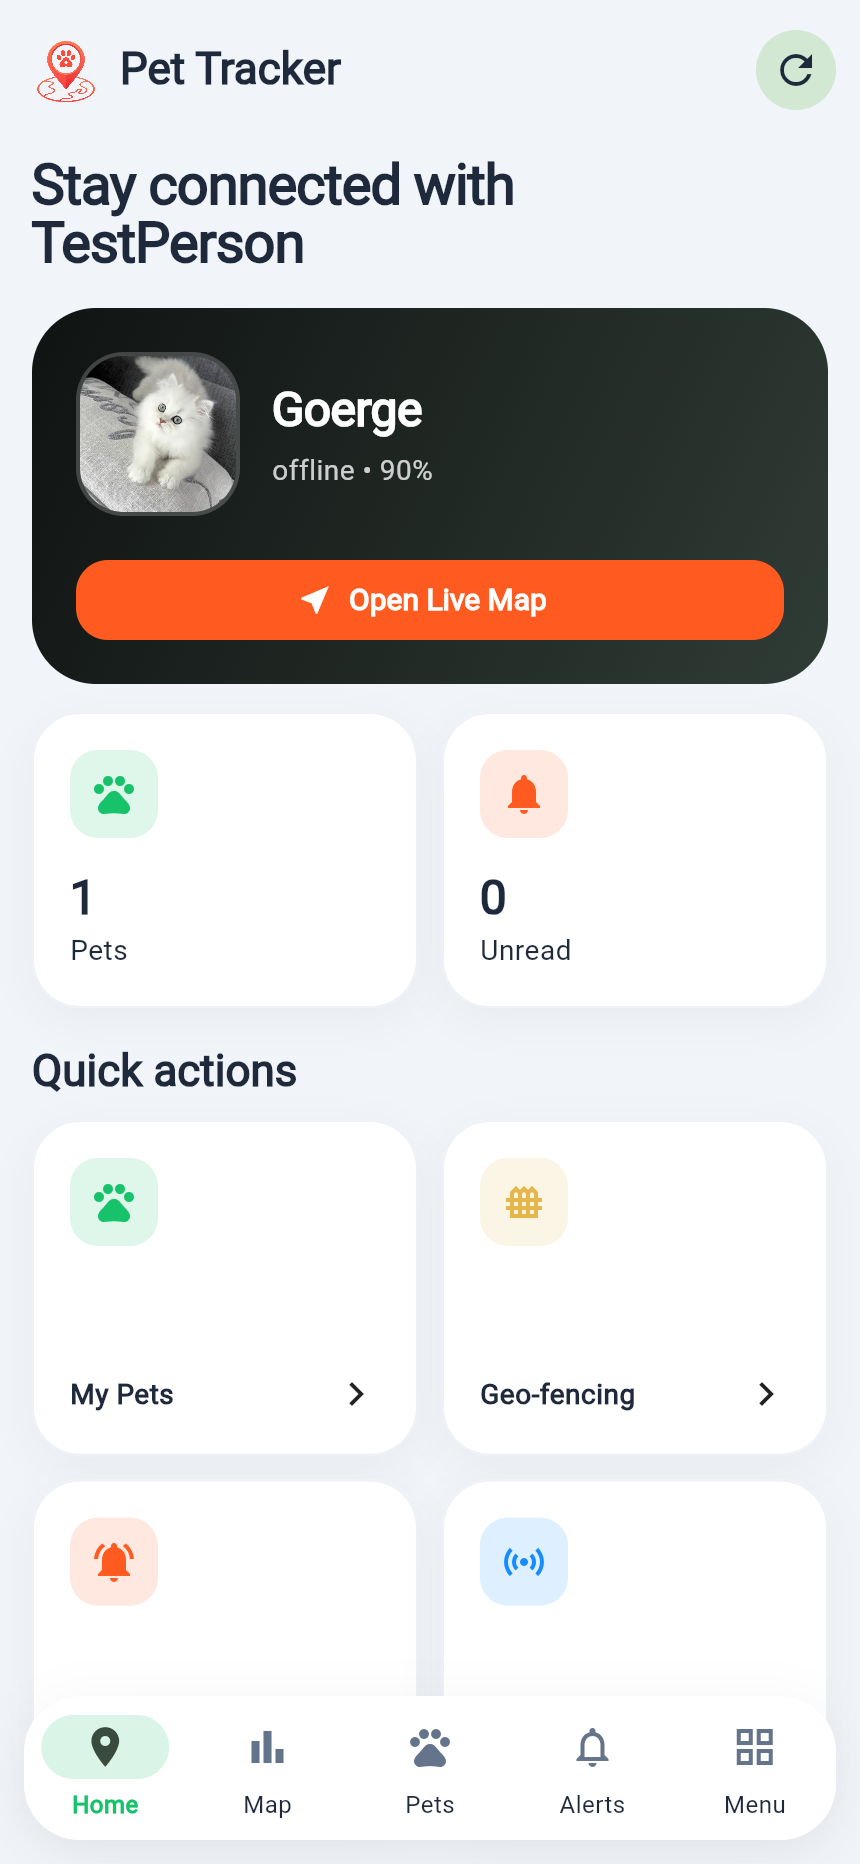
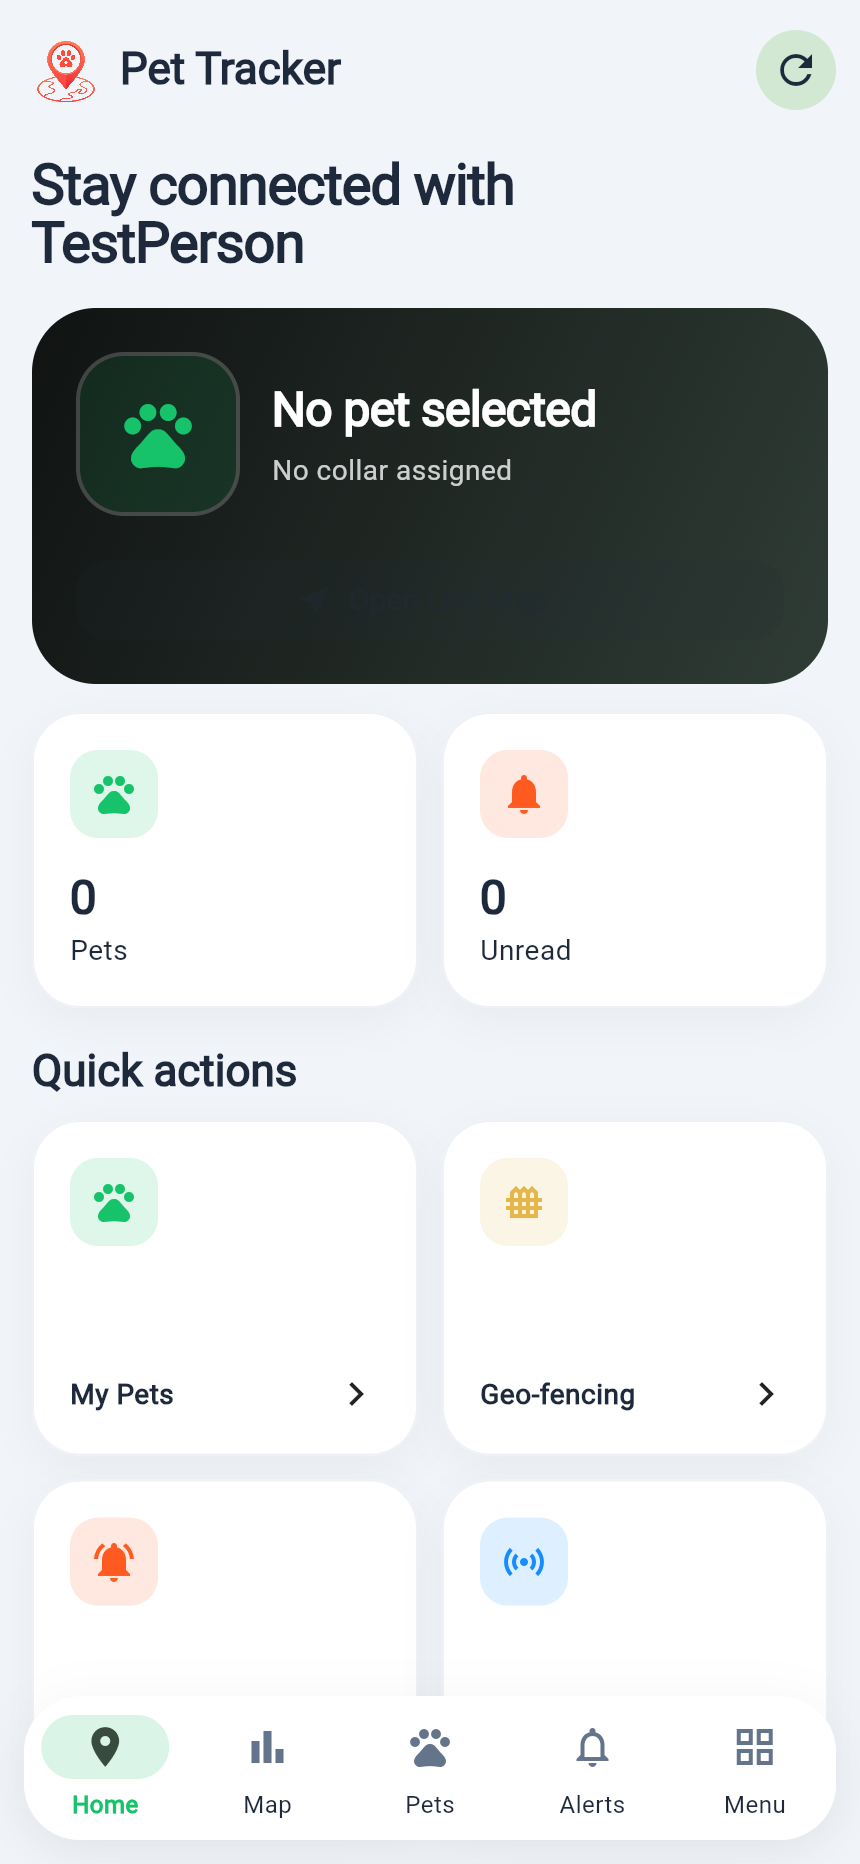
newest

Changed region(s): [[0.0907, 0.1867, 0.9372, 0.3423], [0.0605, 0.4667, 0.1209, 0.4979]]

diff --git a/pet-tracker-app/README.md b/pet-tracker-app/README.md
@@ -12,7 +12,9 @@ cd pet-tracker-backend
 uvicorn app.main:app --reload
 ```
 
-Default API URL: `http://127.0.0.1:8000/api/v1`.
+Default backend URL: `https://pet-tracker-backend-gamma.vercel.app`. The app adds
+`/api/v1` to this URL for API requests. Set `PET_TRACKER_API_URL` to the backend
+origin (without `/api/v1`) only when using a different deployment or a local server.
 
 ## Run The App
 
